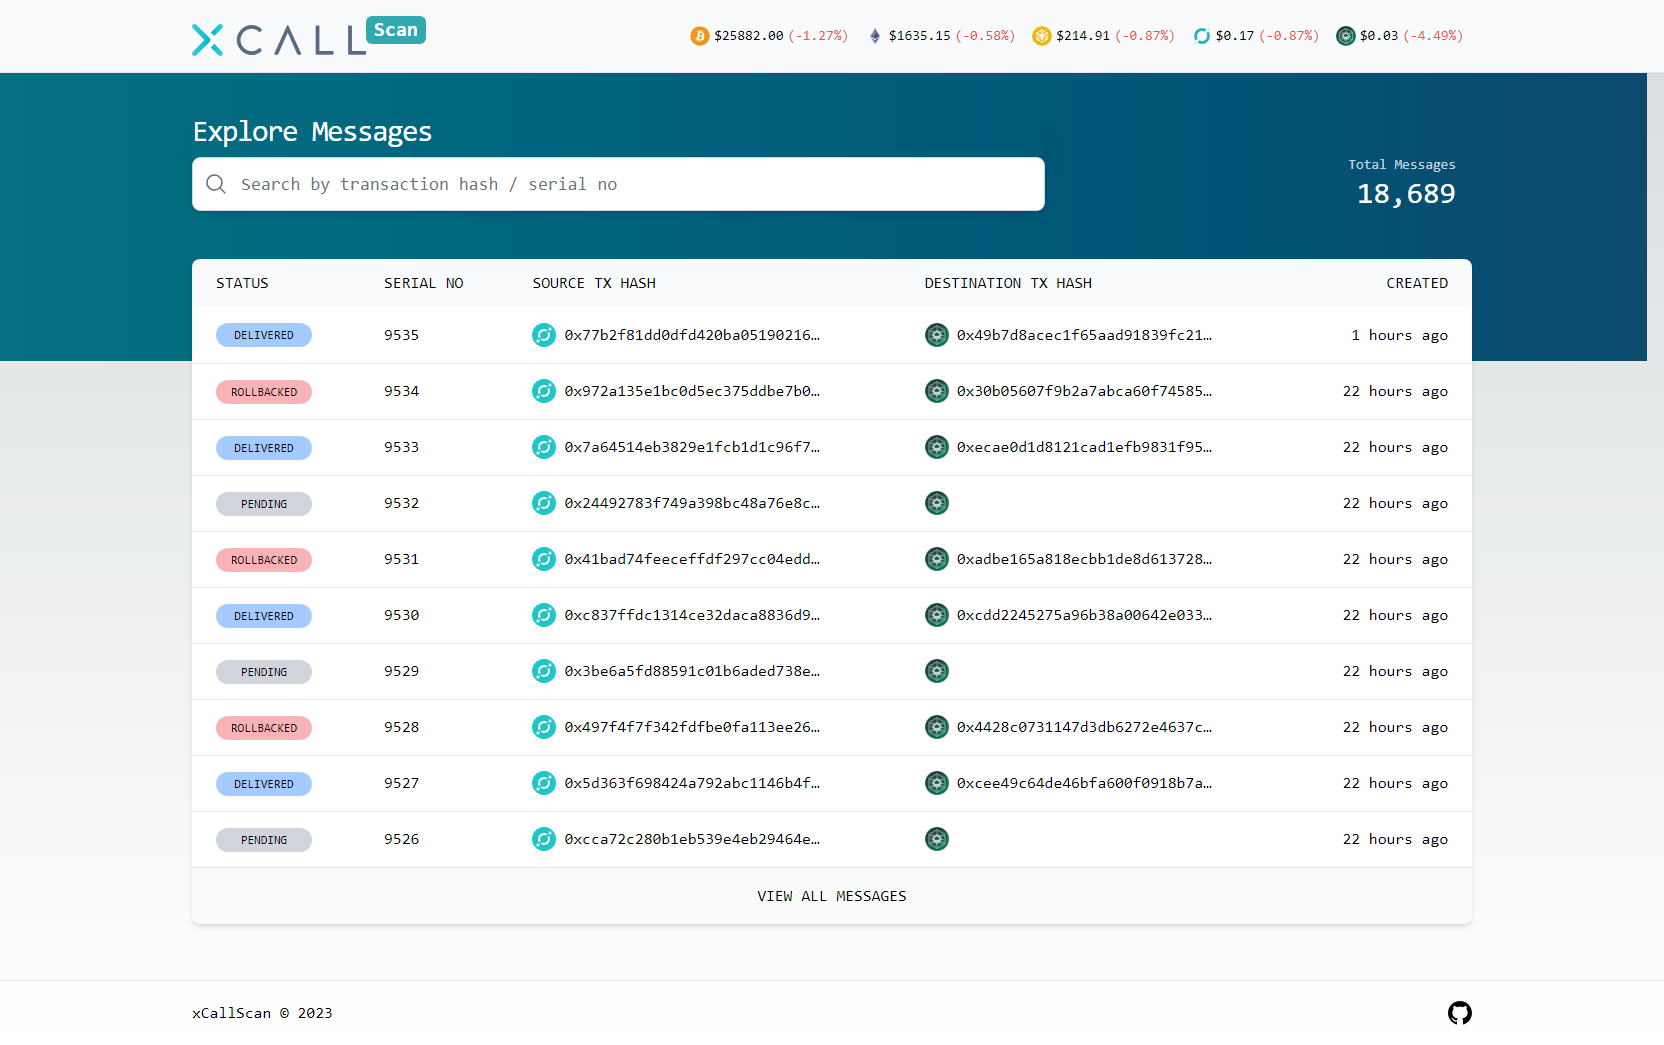
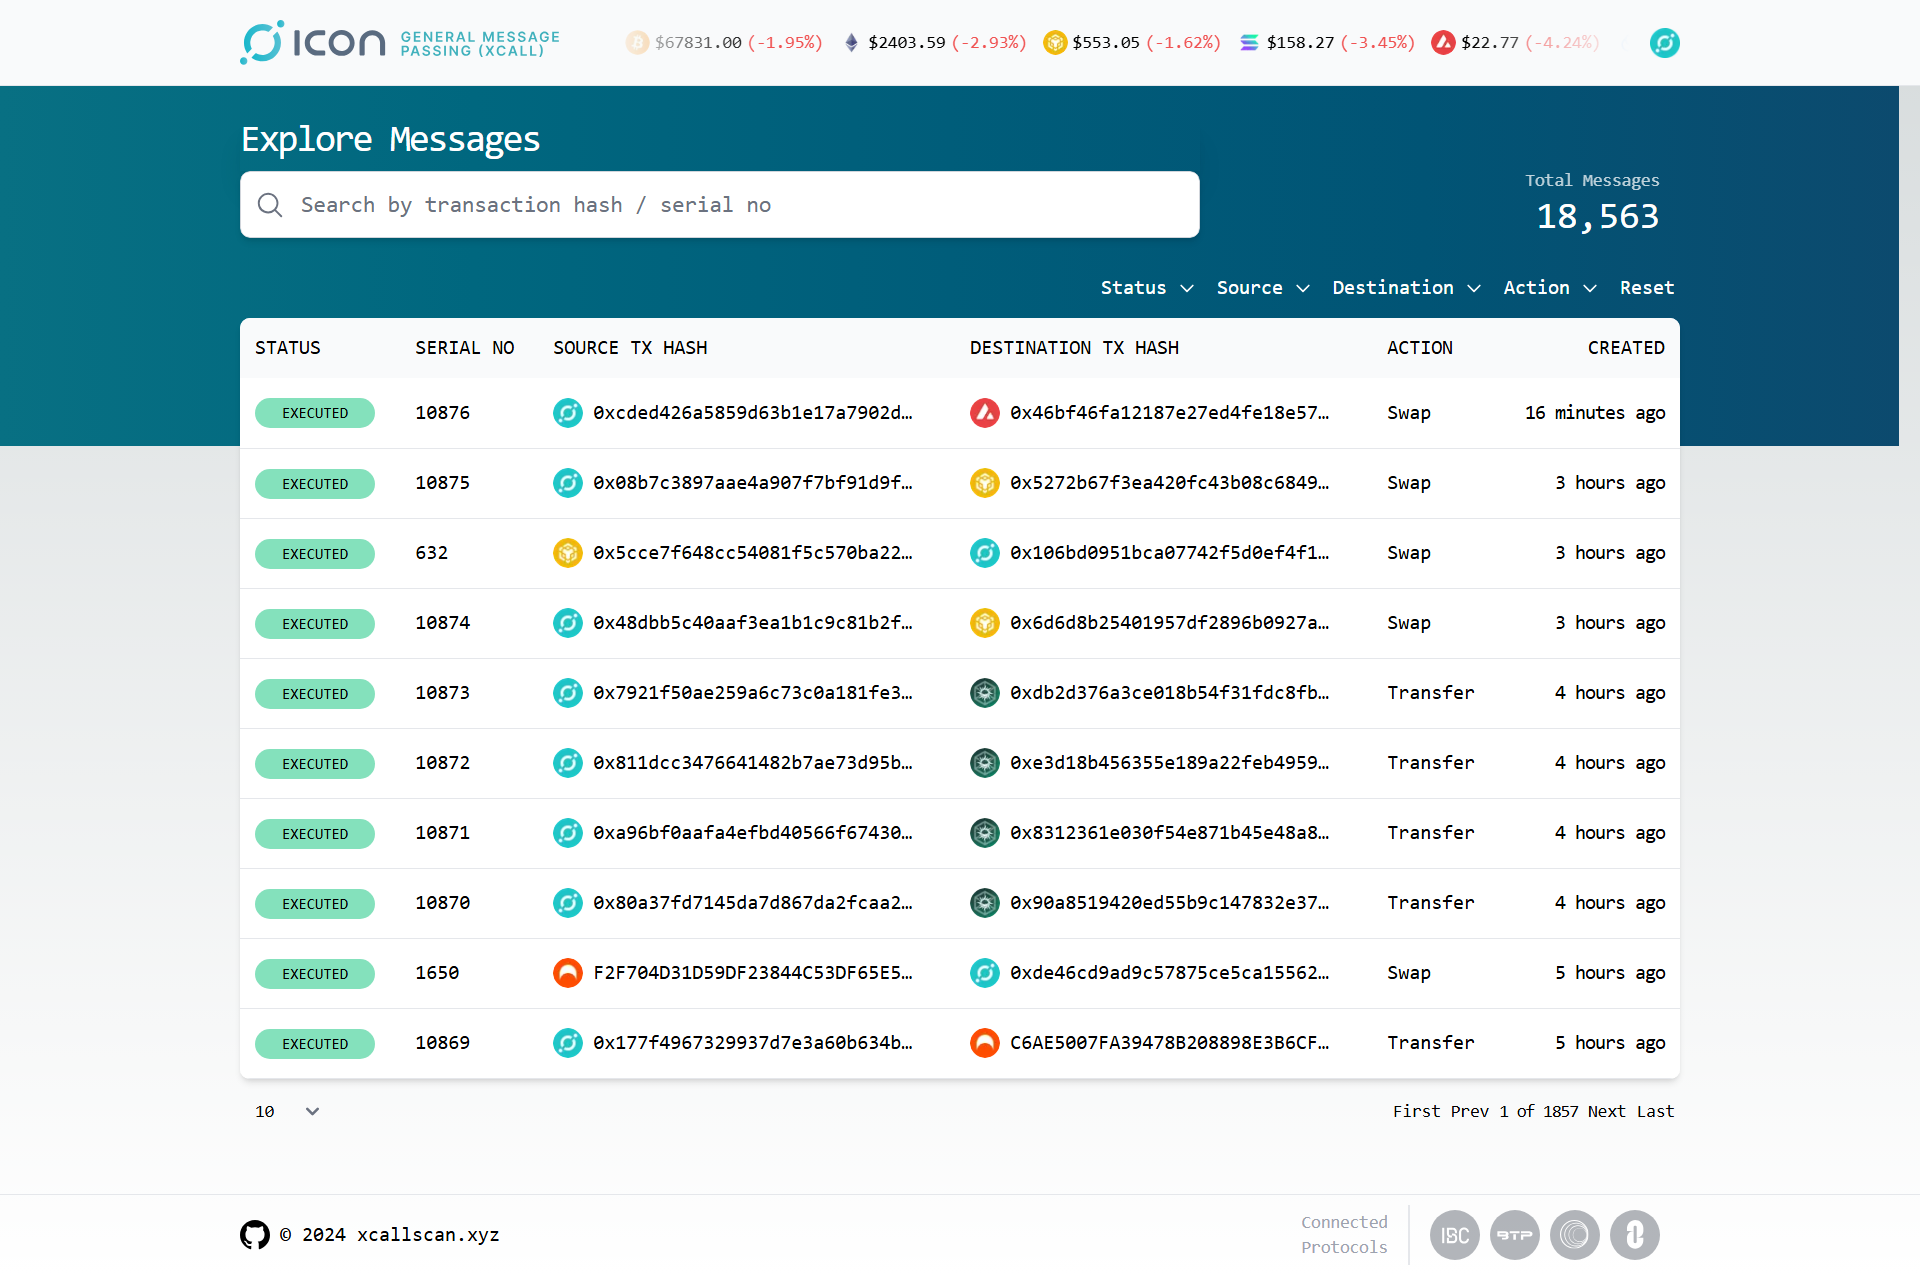
chore: update readme (#65)

diff --git a/README.md b/README.md
@@ -1,6 +1,6 @@
-# xCallScan
+# xCallScan - ICON's General Message Passing Explorer
 
-xCallScan is an Explorer that allows users to look up relay messages and transactions being sent through [xCall Service](https://www.xcall.dev).
+xCallScan is an Explorer that allows users to look up relay messages and transactions being sent through [xCall Service (General Message Passing)](https://www.xcall.dev).
 
 xCallScan is typically made of:
 
@@ -10,10 +10,11 @@ xCallScan is typically made of:
 
 3. Explorer: A frontend app that displays the data
 
+4. WebSocket: client dApp can subscribe websocket to get new messages in realtime
 
-### Highlevel architecture
+5. Network Subscriber: the service listens for new events from networks/chains, extracts, transforms data in realtime
 
-<img src="https://github.com/kryptopoo/xcallscan/blob/master/docs/screenshots/xcallscan-highlevel-architecture.png" width="800" >
+6. Action Analyzer: the service analyzes message transactions to determine what action (SendMsg, Transfer, Swap, Loan...)
 
 
 ### Screenshots
@@ -21,8 +22,7 @@ xCallScan is typically made of:
 <img src="https://github.com/kryptopoo/xcallscan/blob/master/docs/screenshots/homepage.png" width="800" >
 
 
-### Live: http://testnet.xcallscan.xyz
-
+### Live: http://xcallscan.xyz
 
 
 ## Getting started
@@ -51,11 +51,22 @@ xCallScan is typically made of:
     npm run ws
     ```
 
+- Start network subscriber
+    ```bash
+    npm run subscriber
+    ```
+
+- Start action analyzer
+    ```bash
+    npm run analyzer
+    ```
+
 - Command
     ```bash
     ts-node cmd scan <network> <event> <flag_number> <xcall_address>
     ts-node cmd fetch <network> <event> <flag_number> <update_counter>
     ts-node cmd sync <from_sn><comma_or_hyphen><to_sn> <networks_separated_by_comma>
+    ts-node cmd analyze <src_network> <dest_network> <sn>
     ```
 
 ### Api
@@ -85,12 +96,6 @@ xCallScan is typically made of:
     ```bash
     npm start
     ```
-
-## What's next
-- This is still under testing and known issues found.
-- Improving Indexer to fetch data faster.
-- Improving Explorer UI/UX, supporting mobile responsiveness.
-
 
 ## References
 - https://github.com/icon-project/xcall-multi/wiki/xCall-Deployment-Info
